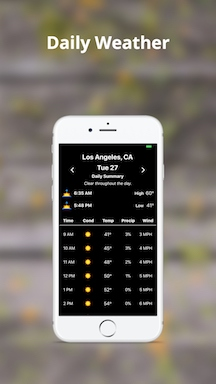
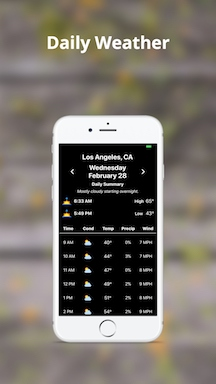
Version 2.4
* Scroll to current hour in daily weather

* Updates to UI (Tableview scroll and date string)

* Day String

* Sample

* Timezone support

* build number

* Prevent potential index out of bounds

Changed region(s): [[0.2778, 0.4062, 0.7222, 0.8438], [0.6389, 0.4375, 0.6944, 0.4688]]

diff --git a/Outside Now/ViewControllers/DayViewController.swift b/Outside Now/ViewControllers/DayViewController.swift
@@ -108,11 +108,15 @@ class DayViewController: UIViewController, UITableViewDelegate, UITableViewDataS
             if let dailySummary = summary, let hourlyWeatherArray = hourlyArray {
                 DispatchQueue.main.async {
                     self.summaryLabel.text = dailySummary.summary
-                    self.sunriseLabel.text = DarkSkyWrapper.convertTimestampToHourMin(seconds: dailySummary.sunriseTime)
-                    self.sunsetLabel.text = DarkSkyWrapper.convertTimestampToHourMin(seconds: dailySummary.sunsetTime)
+                    self.sunriseLabel.text = DarkSkyWrapper.convertTimestampToHourMin(seconds: dailySummary.sunriseTime, timeZone: self.placemark.timeZone)
+                    self.sunsetLabel.text = DarkSkyWrapper.convertTimestampToHourMin(seconds: dailySummary.sunsetTime, timeZone: self.placemark.timeZone)
                     
                     self.hourlyWeather = hourlyWeatherArray
                     self.tableView.reloadData()
+                    if self.currentIndex > 0 {
+                        let indexPath = IndexPath(row: 0, section: 0)
+                        self.tableView.scrollToRow(at: indexPath, at: .top, animated: false)
+                    }
                 }
             }
         })
@@ -135,7 +139,9 @@ class DayViewController: UIViewController, UITableViewDelegate, UITableViewDataS
                 let dateString = DarkSkyWrapper.convertTimestampToDayDate(seconds: weather.time)
                 dayLabel.text = dateString
             } else if currentIndex == 0 {
-                dayLabel.text = "Today"
+                let monthDayString = DarkSkyWrapper.convertTimestampToDayDate(seconds: weather.time, fullString: false)
+                dayLabel.text = "Today\n\(monthDayString)"
+                scrollTableViewToCurrentHour()
             }
             
             // Make "High" & "Low" bold on their labels
@@ -158,7 +164,27 @@ class DayViewController: UIViewController, UITableViewDelegate, UITableViewDataS
         }
     }
     
+    func scrollTableViewToCurrentHour() {
+        var calendar = Calendar.current
+        // use the correct timeZone
+        //
+        if let zone = placemark.timeZone {
+            calendar.timeZone = zone
+        }
+        let hour = calendar.component(.hour, from: Date())
+        // Make sure we can scroll to this index
+        //
+        if 0...tableView.numberOfRows(inSection: 0) ~= hour {
+            let indexPath = IndexPath(row: hour, section: 0)
+            tableView.scrollToRow(at: indexPath, at: .top, animated: false)
+        } else {
+            let indexPath = IndexPath(row: 0, section: 0)
+            tableView.scrollToRow(at: indexPath, at: .top, animated: false)
+        }
+    }
+    
     // Marker: Tableview Delegate
+    //
     func numberOfSections(in tableView: UITableView) -> Int {
         return 1
     }
@@ -170,7 +196,7 @@ class DayViewController: UIViewController, UITableViewDelegate, UITableViewDataS
     func tableView(_ tableView: UITableView, cellForRowAt indexPath: IndexPath) -> UITableViewCell {
         let cell = tableView.dequeueReusableCell(withIdentifier: "enhancedHourlyCell", for: indexPath) as! HourlyTableViewCell
         
-        cell.timeLabel.text = DarkSkyWrapper.convertTimestampToHour(seconds: hourlyWeather[indexPath.row].time)
+        cell.timeLabel.text = DarkSkyWrapper.convertTimestampToHour(seconds: hourlyWeather[indexPath.row].time, timeZone: placemark.timeZone)
         cell.condImageView.image = DarkSkyWrapper.convertIconNameToImage(iconName: hourlyWeather[indexPath.row].iconName)
         cell.tempLabel.text = "\(hourlyWeather[indexPath.row].temperature.stringRepresentation ?? "")°"
         cell.precipLabel.text = hourlyWeather[indexPath.row].precipProbability.percentString

diff --git a/Outside Now/ViewControllers/WeatherViewController.swift b/Outside Now/ViewControllers/WeatherViewController.swift
@@ -22,8 +22,17 @@ class WeatherViewController: UIViewController, CLLocationManagerDelegate, UIColl
     @IBOutlet weak var collectionView: UICollectionView!
     @IBOutlet weak var tableView: UITableView!
     
+    
     var lastPlacemark: CLPlacemark?
+    
+    // Flag used to determine when you refresh the weather data
+    //
     var lastTimestamp: Int64?
+    
+    // Save the timezone so the timestamps can be converted to their local time
+    // if the user searches for a location in another timeZone.
+    //
+    var requestTimeZone: String?
     
     var weatherArray = [Weather]()
     var hourlyWeather = [HourlyWeather]()
@@ -125,7 +134,7 @@ class WeatherViewController: UIViewController, CLLocationManagerDelegate, UIColl
         if let precipPercent = hourlyWeather[indexPath.row].precipProbability.percentString {
             cell.precipLabel.text = precipPercent
         }
-        cell.hourLabel.text = DarkSkyWrapper.convertTimestampToHour(seconds: hourlyWeather[indexPath.row].time)
+        cell.hourLabel.text = DarkSkyWrapper.convertTimestampToHour(seconds: hourlyWeather[indexPath.row].time, timeZone: lastPlacemark?.timeZone)
         cell.tempLabel.textColor = UIColor.white
         cell.precipLabel.textColor = UIColor.white
         cell.hourLabel.textColor = UIColor.white
@@ -229,21 +238,22 @@ class WeatherViewController: UIViewController, CLLocationManagerDelegate, UIColl
     }
     
     func shouldRefreshWeather(placemark: CLPlacemark) -> Bool {
-        // If the placemark is new or enough time has passed (15 minutes) we can
-        // refresh the weather data. This function also updates the value stored in
-        // last placemark
+        // If enough time has passed (15 minutes) we refresh the weather data.
         //
         if self.lastPlacemark == nil {
-            // Save the last place we got the weather for
+            // Initial request
             //
-            self.lastPlacemark = placemark
-            self.lastTimestamp = Date().millisecondsSinceEpoch
             return true
+            // User could have changed their location before 15 minutes have passed
+            //
         } else if fifteenMinutesSinceLastRequest() {
             return true
         } else {
             return false
         }
+        // Note that searches are run checked with this function they always
+        // result in a new weather request
+        //
     }
     
     func fifteenMinutesSinceLastRequest() -> Bool {
@@ -260,19 +270,25 @@ class WeatherViewController: UIViewController, CLLocationManagerDelegate, UIColl
         }
     }
     
+    // Not being used
+    //
     func isNewCity(placemark: CLPlacemark) -> Bool {
-        guard let newCity = placemark.locality, let oldCity = lastPlacemark?.locality else { return false }
-        if newCity != oldCity {
-            return true
-        } else {
+        guard let newCity = placemark.locality, let oldCity = lastPlacemark?.locality else { return true }
+        if newCity == oldCity {
             return false
+        } else {
+            return true
         }
     }
     
     func parsePlacemark(placemark: CLPlacemark) {
         guard let location = placemark.location else { return }
+        // Update lastPlacemark everytime a new one is parsed
+        //
+        self.lastPlacemark = placemark
         getWeather(latitude: location.coordinate.latitude, longitude: location.coordinate.longitude)
         setLocationLabel(placemark: placemark)
+        
     }
     
     func setLocationLabel(placemark: CLPlacemark) {

diff --git a/Outside Now/Wrappers/DarkSkyWrapper.swift b/Outside Now/Wrappers/DarkSkyWrapper.swift
@@ -187,23 +187,29 @@ class DarkSkyWrapper {
         return newImage
     }
     
-    static func convertTimestampToHour(seconds: Double) -> String {
+    static func convertTimestampToHour(seconds: Double, timeZone: TimeZone?) -> String {
         // Convert seconds to a string representing that hour
         //
         let date = Date(timeIntervalSince1970: seconds)
         let formatter = DateFormatter()
         // "a" prints "pm" or "am"
         //
+        if let zone = timeZone {
+            formatter.timeZone = zone
+        }
         formatter.dateFormat = "h a"
         let hourString = formatter.string(from: date)
         return hourString
     }
     
-    static func convertTimestampToHourMin(seconds: Double) -> String {
+    static func convertTimestampToHourMin(seconds: Double, timeZone: TimeZone?) -> String {
         // Convert seconds to a string representing that hour
         //
         let date = Date(timeIntervalSince1970: seconds)
         let formatter = DateFormatter()
+        if let zone = timeZone {
+            formatter.timeZone = zone
+        }
         // "a" prints "pm" or "am"
         //
         formatter.dateFormat = "h:mm a"
@@ -221,14 +227,29 @@ class DarkSkyWrapper {
         return formatter.string(from: date)
     }
     
-    static func convertTimestampToDayDate(seconds: Double) -> String {
+    static func convertTimestampToDayDate(seconds: Double, fullString: Bool = true) -> String {
         // Converts seconds to the string day of the week plus date ex: "Sat 24"
         //
         let date = Date(timeIntervalSince1970: seconds)
-        let format = "EE d"
+        // format is full day string, full month, two digit day
+        // Ex: "Monday March 26"
+        //
+        let dayFormat = "EEEE"
         let formatter = DateFormatter()
-        formatter.dateFormat = format
-        return formatter.string(from: date)
+        formatter.dateFormat = dayFormat
+        let dayString = formatter.string(from: date)
+        
+        let monthDayFormat = "MMMM d"
+        formatter.dateFormat = monthDayFormat
+        let monthDayString = formatter.string(from: date)
+        
+        if fullString {
+            return "\(dayString)\n\(monthDayString)"
+        } else {
+            // Return just the month and day for "Today" case in daily weather
+            //
+            return "\(monthDayString)"
+        }
     }
 }
 
